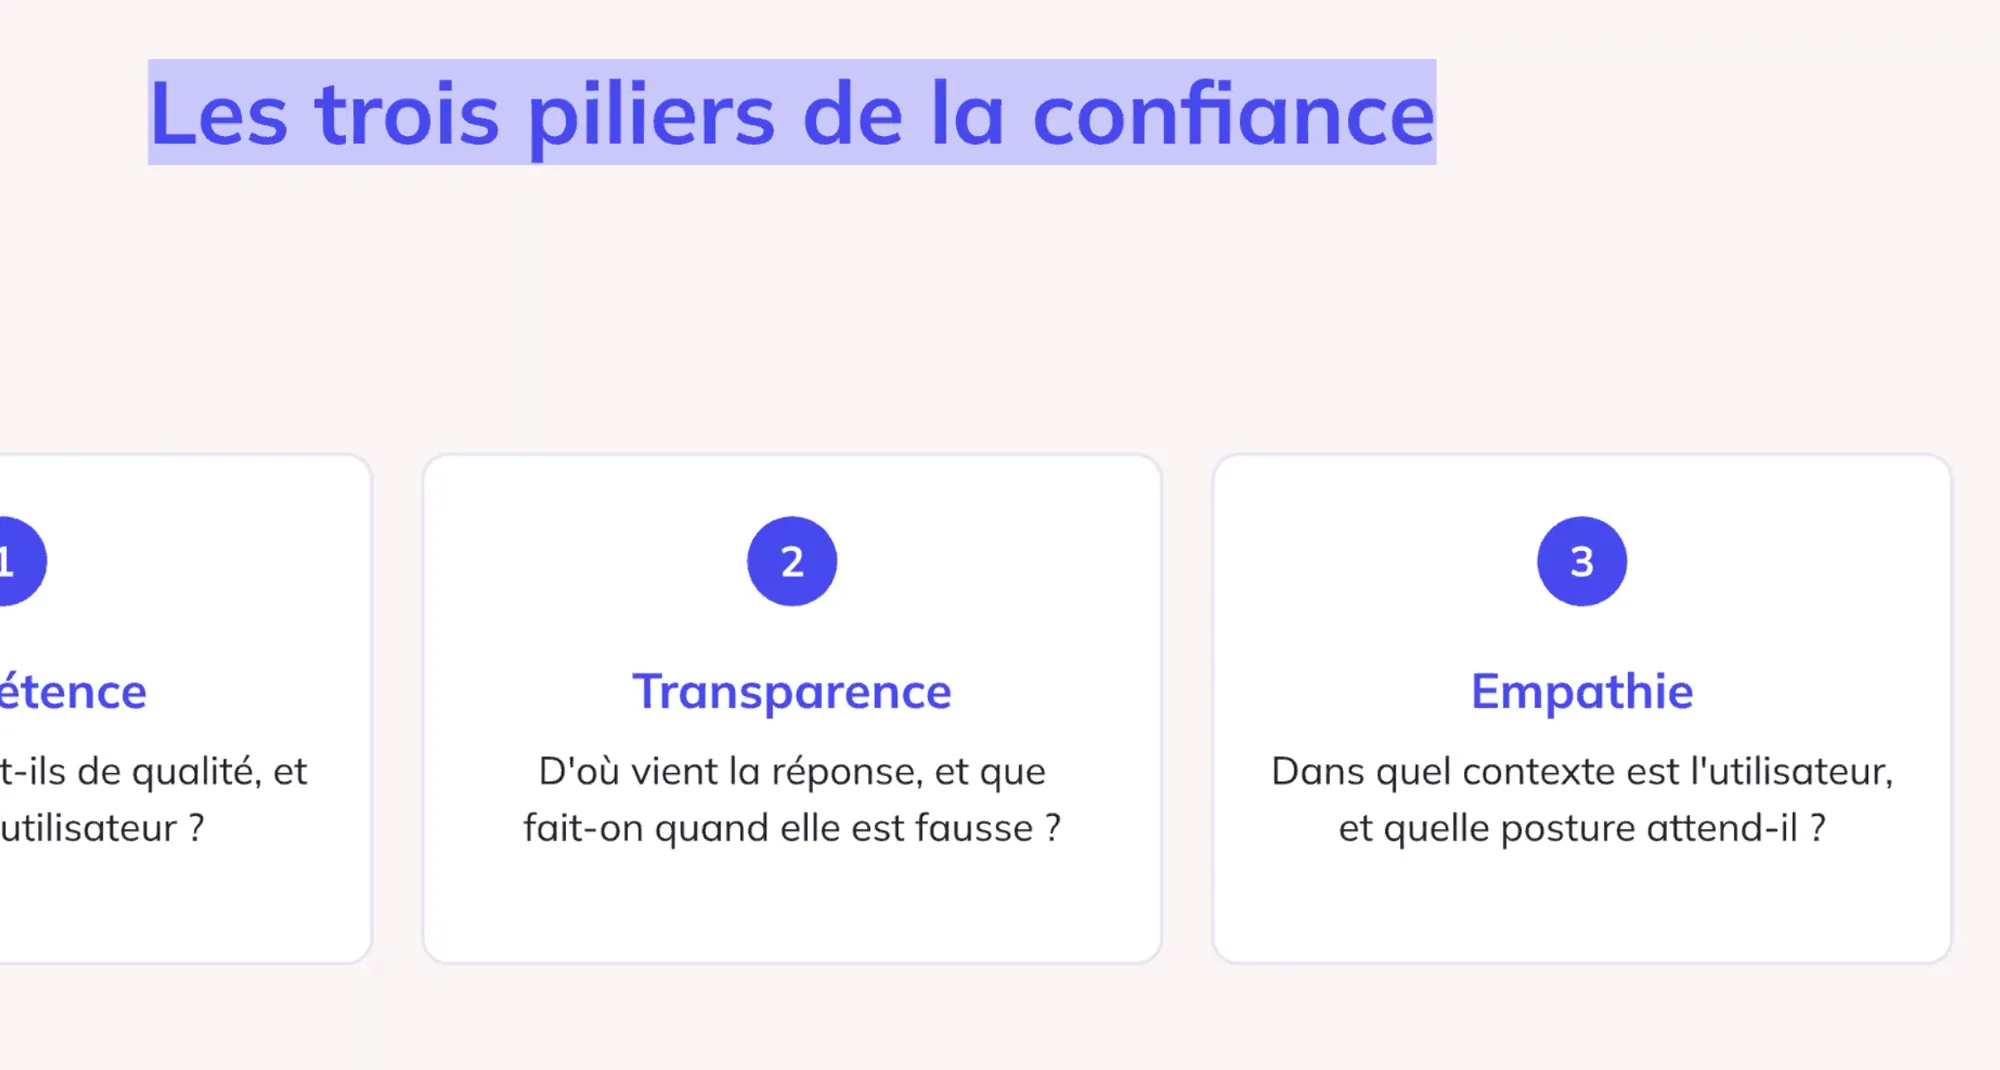
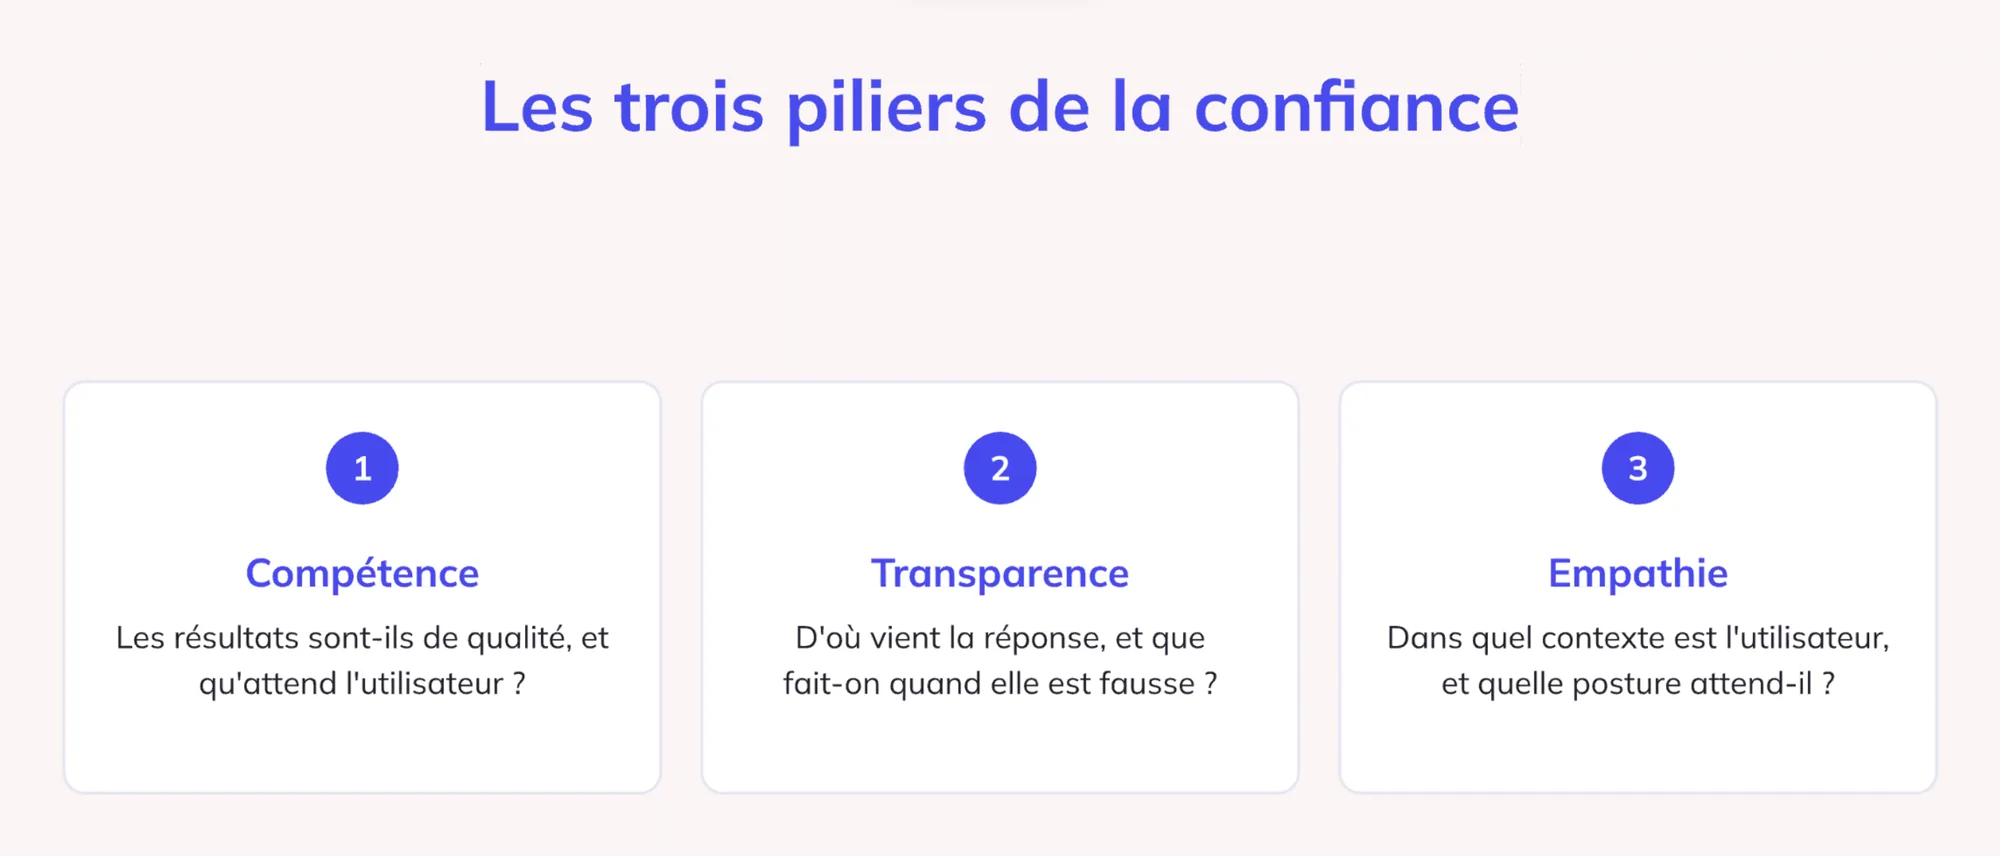
Recentre les trois slides de l'article Noé et retire la webcam et le surlignage

diff --git a/src/data/blog.ts b/src/data/blog.ts
@@ -317,7 +317,7 @@ export const blogPosts: BlogPost[] = [
         image: {
           url: noeIaProduitConfiance,
           alt: 'Slide : les trois piliers de la confiance - compétence, transparence, empathie',
-          aspectRatio: '2000 / 1070',
+          aspectRatio: '2000 / 856',
           width: 'lg',
           caption: 'Les trois piliers de la confiance : compétence, transparence, empathie.',
         },
@@ -343,7 +343,7 @@ export const blogPosts: BlogPost[] = [
         image: {
           url: noeIaProduitCycle,
           alt: 'Slide : ce que ça change dans le cycle produit - un champ ouvert, des briques d’évaluation, une optimisation directe',
-          aspectRatio: '2000 / 1007',
+          aspectRatio: '2000 / 1050',
           width: 'lg',
           caption: "Ce que l'IA change dans le cycle produit : un champ ouvert, des briques d'évaluation et une optimisation directe.",
         },
@@ -360,7 +360,7 @@ export const blogPosts: BlogPost[] = [
         image: {
           url: noeIaProduitLean,
           alt: 'Slide : comment le lean peut nous aider - value for customer, right first time, tech-enabled network of teams, learning organisation',
-          aspectRatio: '2000 / 915',
+          aspectRatio: '2000 / 960',
           width: 'lg',
           caption: "Quatre principes lean pour aller plus loin : value for customer, right first time, tech-enabled network of teams, learning organisation.",
         },
